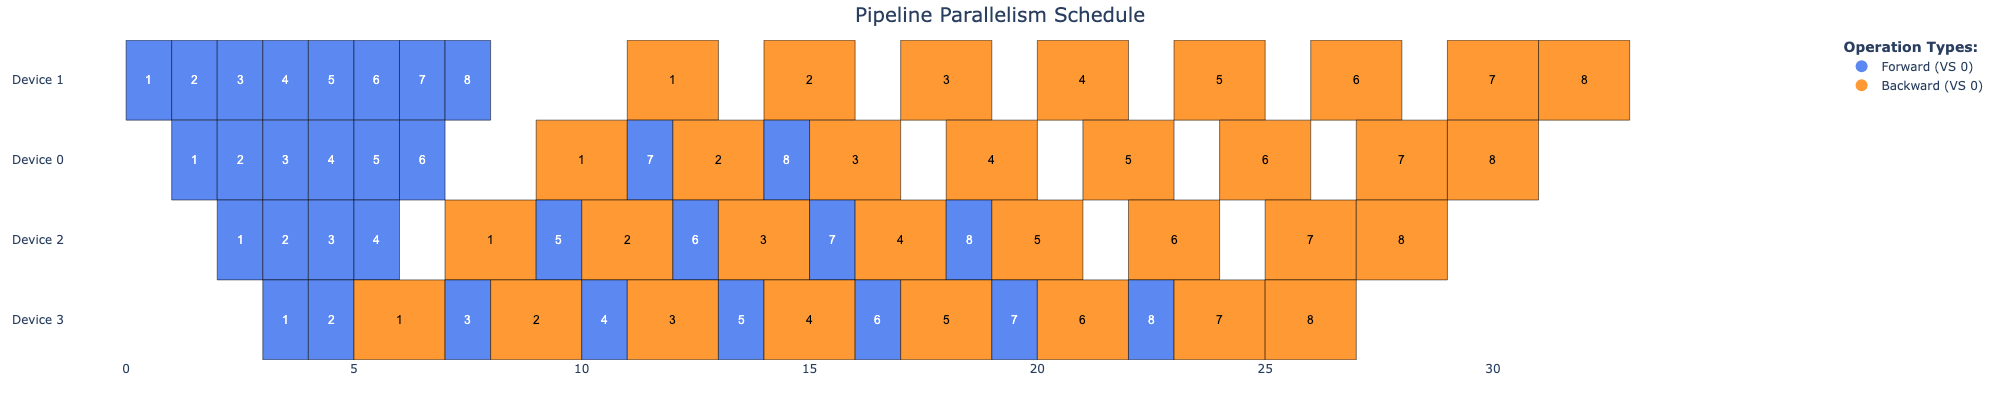
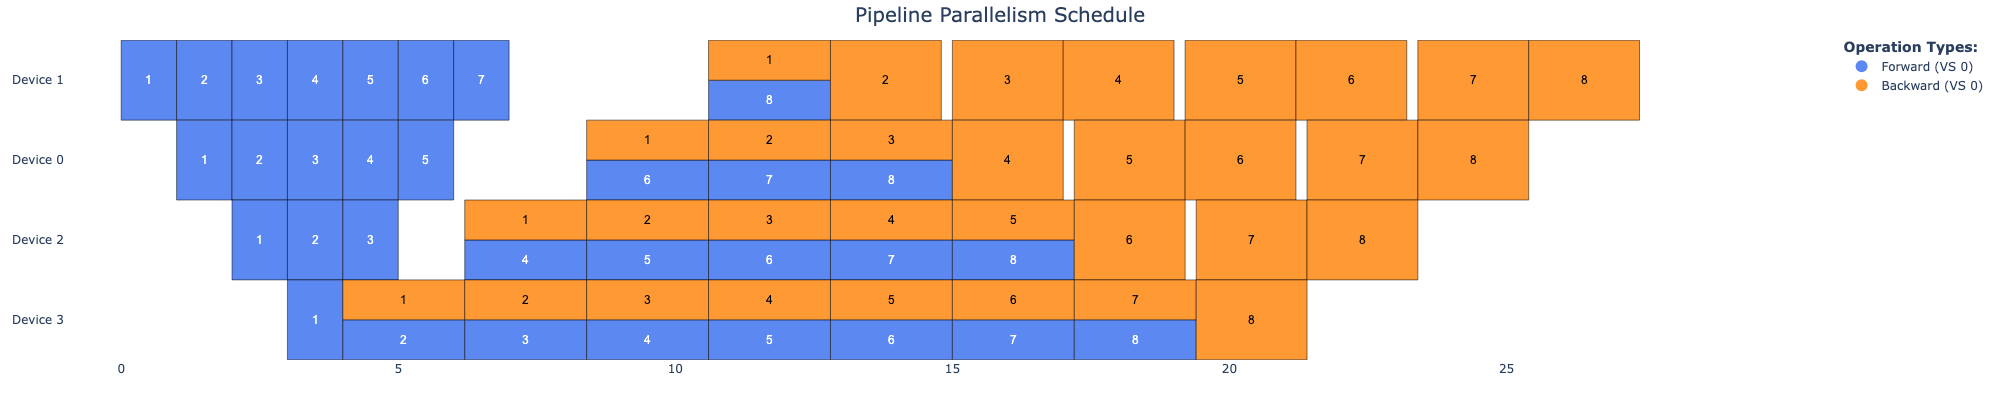
Update visualizer for 1F1B overlap.

Changed region(s): [[0.093, 0.09, 0.775, 0.9], [0.806, 0.09, 0.837, 0.3], [0.744, 0.9, 0.775, 0.93]]

diff --git a/src/visualizer.py b/src/visualizer.py
@@ -213,71 +213,14 @@ def create_pipeline_figure(
         sorted_tasks = sorted(schedule_data[device], key=lambda t: t["start_time"])
 
         for task in sorted_tasks:
-            # Determine task color and text color
-            if task["type"] == "forward":
-                color = get_color(task["type"], task["stage"], num_devices)
-                text_color = "white"
-                name = "Forward"
-            elif task["type"] == "backward":
-                color = get_color(task["type"], task["stage"], num_devices)
-                text_color = "black"
-                name = "Backward"
-            elif task["type"] == "backward_D":
-                color = get_color(task["type"], task["stage"], num_devices)
-                text_color = "black"
-                name = "Backward (Grad)"
-            elif task["type"] == "backward_W":
-                color = get_color(task["type"], task["stage"], num_devices)
-                text_color = "black"
-                name = "Backward (Weight)"
-            elif task["type"].startswith("overlapped_"):
-                color = get_color(task["type"], task["stage"], num_devices)
-                text_color = "white"
-                name = "Overlapped"
-                # Create a more descriptive name for the hover text
-                if "is_overlapped" in task and task["is_overlapped"]:
-                    op_types = [op["type"] for op in task["operations"]]
-                    name = f"Overlapped ({', '.join(op_types)})"
-            else:
-                color = empty_color
-                text_color = "black"
-                name = "Unknown"
-
-            # Add rectangle for the task
-            start_time = task["start_time"]
-            duration = task["duration"]
-
             # Calculate y positions with no gaps
             y_pos = device_idx_reversed * y_spacing
-
-            # Create rectangle using shape (batch-add later)
-            shapes.append(
-                dict(
-                    type="rect",
-                    x0=start_time,
-                    y0=y_pos - 0.5,
-                    x1=start_time + duration,
-                    y1=y_pos + 0.5,
-                    line=dict(color="black", width=0.5),
-                    fillcolor=color,
-                    layer="above",
-                )
-            )
-
-            # Add batch number text (batch-add later)
-            annotations.append(
-                dict(
-                    x=start_time + duration / 2,
-                    y=y_pos,
-                    text=f"{task['batch']}" + ("*" if task.get("is_overlapped", False) else ""),
-                    showarrow=False,
-                    font=dict(color=text_color, size=12, family="Arial, bold"),
-                )
-            )
-
-            # Prepare hover data (add traces in batches later)
-            if task.get("is_overlapped", False):
-                # Enhanced hover text for overlapped operations
+            start_time = task["start_time"]
+            duration = task["duration"]
+            
+            # Special handling for overlapped operations
+            if task.get("is_overlapped", False) and "operations" in task:
+                # Prepare hover text for the entire overlapped operation
                 op_details = "<br>".join([
                     f"- {op['type']} (Batch {op['batch']}, Stage {op['stage']})"
                     for op in task["operations"]
@@ -288,7 +231,113 @@ def create_pipeline_figure(
                     f"End: {task['start_time'] + task['duration']:.2f}<br>"
                     f"Duration: {task['duration']:.2f}"
                 )
+                
+                # Add invisible marker for hover info
+                hover_traces.append(
+                    dict(
+                        x=[start_time + duration / 2],
+                        y=[y_pos],
+                        mode="markers",
+                        marker=dict(opacity=0),  # Invisible marker
+                        hoverinfo="text",
+                        text=hover_text,
+                        showlegend=False,
+                    )
+                )
+                
+                # Calculate height of each sub-operation
+                sub_height = 1.0 / len(task["operations"])
+                
+                # Add rectangles and annotations for each sub-operation
+                for i, sub_op in enumerate(task["operations"]):
+                    # Determine color for this sub-operation
+                    color = get_color(sub_op["type"], sub_op["stage"], num_devices)
+                    
+                    # Calculate y position for this sub-operation
+                    sub_y_pos_bottom = y_pos - 0.5 + (i * sub_height)
+                    sub_y_pos_top = sub_y_pos_bottom + sub_height
+                    sub_y_center = (sub_y_pos_bottom + sub_y_pos_top) / 2
+                    
+                    # Add rectangle for this sub-operation
+                    shapes.append(
+                        dict(
+                            type="rect",
+                            x0=start_time,
+                            y0=sub_y_pos_bottom,
+                            x1=start_time + duration,
+                            y1=sub_y_pos_top,
+                            line=dict(color="black", width=0.5),
+                            fillcolor=color,
+                            layer="above",
+                        )
+                    )
+                    
+                    # Add batch number text for this sub-operation
+                    # Determine text color based on background color
+                    if sub_op["type"] in ["backward", "backward_D", "backward_W"]:
+                        text_color = "black"
+                    else:
+                        text_color = "white"
+                        
+                    annotations.append(
+                        dict(
+                            x=start_time + duration / 2,
+                            y=sub_y_center,
+                            text=f"{sub_op['batch']}",
+                            showarrow=False,
+                            font=dict(color=text_color, size=12, family="Arial, bold"),
+                        )
+                    )
             else:
+                # Regular (non-overlapped) operation
+                # Determine task color and text color
+                if task["type"] == "forward":
+                    color = get_color(task["type"], task["stage"], num_devices)
+                    text_color = "white"
+                    name = "Forward"
+                elif task["type"] == "backward":
+                    color = get_color(task["type"], task["stage"], num_devices)
+                    text_color = "black"
+                    name = "Backward"
+                elif task["type"] == "backward_D":
+                    color = get_color(task["type"], task["stage"], num_devices)
+                    text_color = "black"
+                    name = "Backward (Grad)"
+                elif task["type"] == "backward_W":
+                    color = get_color(task["type"], task["stage"], num_devices)
+                    text_color = "black"
+                    name = "Backward (Weight)"
+                else:
+                    color = empty_color
+                    text_color = "black"
+                    name = "Unknown"
+
+                # Add rectangle for the task
+                shapes.append(
+                    dict(
+                        type="rect",
+                        x0=start_time,
+                        y0=y_pos - 0.5,
+                        x1=start_time + duration,
+                        y1=y_pos + 0.5,
+                        line=dict(color="black", width=0.5),
+                        fillcolor=color,
+                        layer="above",
+                    )
+                )
+
+                # Add batch number text
+                annotations.append(
+                    dict(
+                        x=start_time + duration / 2,
+                        y=y_pos,
+                        text=f"{task['batch']}",
+                        showarrow=False,
+                        font=dict(color=text_color, size=12, family="Arial, bold"),
+                    )
+                )
+
+                # Prepare hover data
                 hover_text = (
                     f"Batch: {task['batch']}<br>"
                     f"Stage: {task['stage']}<br>"
@@ -298,17 +347,17 @@ def create_pipeline_figure(
                     f"Duration: {task['duration']:.2f}"
                 )
 
-            hover_traces.append(
-                dict(
-                    x=[start_time + duration / 2],
-                    y=[y_pos],
-                    mode="markers",
-                    marker=dict(opacity=0),  # Invisible marker
-                    hoverinfo="text",
-                    text=hover_text,
-                    showlegend=False,
+                hover_traces.append(
+                    dict(
+                        x=[start_time + duration / 2],
+                        y=[y_pos],
+                        mode="markers",
+                        marker=dict(opacity=0),  # Invisible marker
+                        hoverinfo="text",
+                        text=hover_text,
+                        showlegend=False,
+                    )
                 )
-            )
 
             # Update progress
             if show_progress:
@@ -374,15 +423,6 @@ def create_pipeline_figure(
                     color=get_color("backward_W", vs * num_devices, num_devices),
                 )
             )
-        
-        # Add entry for overlapped operations if they exist
-        if has_overlapped:
-            legend_items.append(
-                dict(
-                    name=f"Overlapped (VS {vs})",
-                    color=get_color("overlapped_", vs * num_devices, num_devices),
-                )
-            )
 
     # If no tasks found, add default legend items
     if not legend_items:
@@ -396,10 +436,6 @@ def create_pipeline_figure(
             dict(
                 name="Backward Weight (VS 0)",
                 color=get_color("backward_W", 0, num_devices),
-            ),
-            dict(
-                name="Overlapped (VS 0)",
-                color=get_color("overlapped_", 0, num_devices),
             ),
         ]
 
